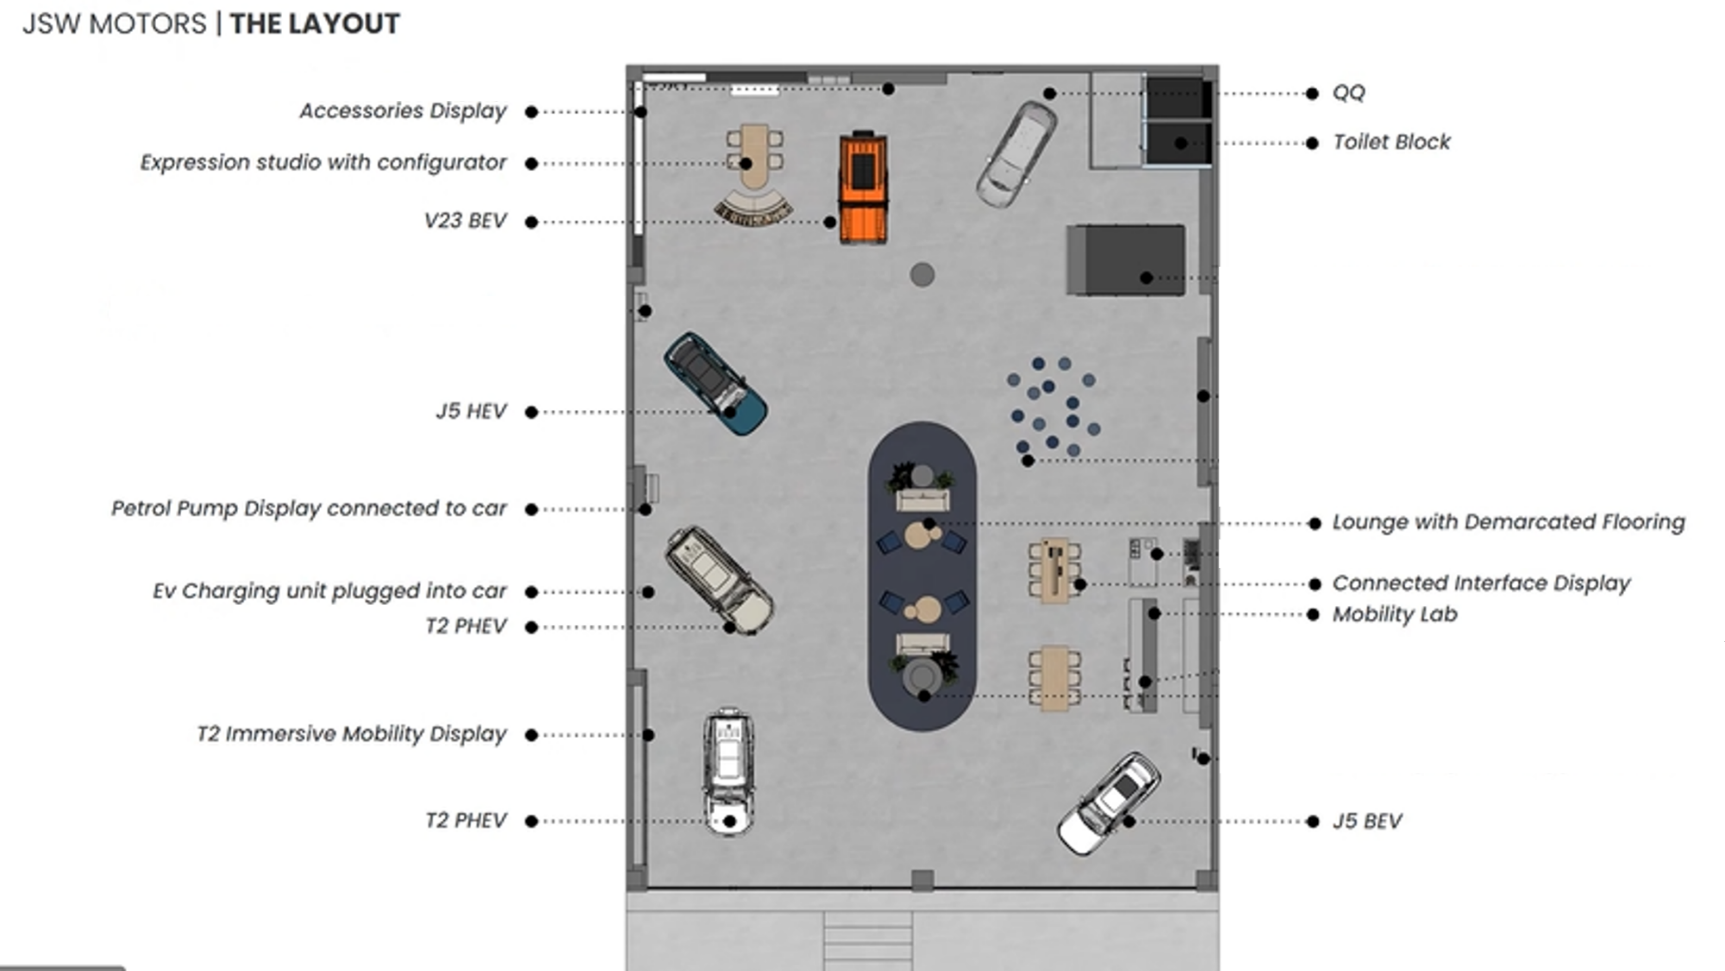
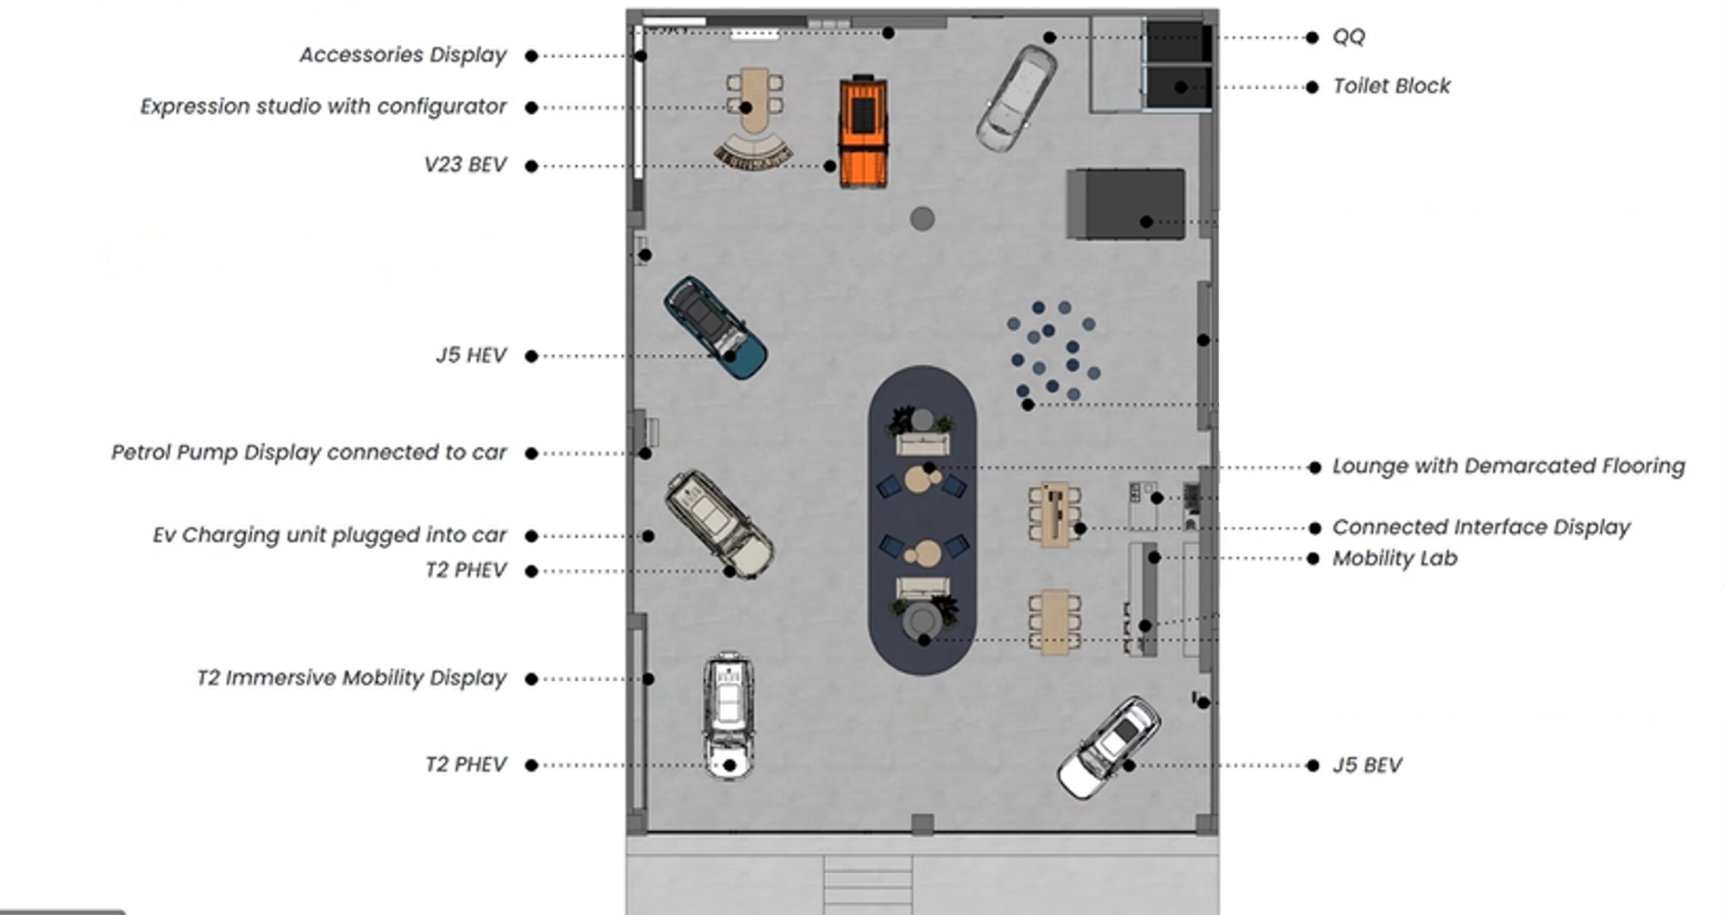
How to Read the Manual: definitions and symbol key from latest Word file; Dealership Layout: remove 'JSW MOTORS | THE LAYOUT' heading from image

diff --git a/index.html b/index.html
@@ -1790,7 +1790,7 @@ kbd{
 </article>
 <article class="jx-chapter jx-intro" id="jxIn_read" data-ch="read" data-kick="Introduction" data-name="How to Read the Manual" hidden>
 <header class="jx-head"><div class="ch-head"><div><p class="jx-kicker">Introduction</p><h1 class="jx-h1">How to Read the Manual</h1></div></div></header>
-<section class="ch-sec"><div class="intro-tw"><table class="intro-t"><tbody><tr><td>Purpose</td><td></td></tr><tr><td>Benefit to Dealership</td><td></td></tr><tr><td>Benefit to Customer</td><td></td></tr><tr><td>Process Flow</td><td></td></tr><tr><td>JSW Motors Process Standards</td><td></td></tr><tr><td>Differentiator</td><td></td></tr><tr><td>Success Metric</td><td></td></tr><tr><td>SC</td><td></td></tr><tr><td>SM</td><td></td></tr><tr><td>CRE</td><td></td></tr><tr><td>CRM</td><td></td></tr><tr><td>TD</td><td></td></tr><tr><td>TDC</td><td></td></tr><tr><td>SA</td><td></td></tr><tr><td>ASE</td><td></td></tr><tr><td>UCC</td><td></td></tr><tr><td>CE</td><td></td></tr><tr><td>EC</td><td></td></tr><tr><td><svg width="34" height="22" viewBox="0 0 34 22" aria-hidden="true"><path d="M17 1l15 10-15 10L2 11z" fill="#1b1b1b"/></svg></td><td>Decision box</td></tr><tr><td><svg width="34" height="22" viewBox="0 0 34 22" aria-hidden="true"><rect x="1" y="2" width="32" height="18" fill="#1b1b1b"/></svg></td><td>Process step</td></tr></tbody></table></div></section>
+<section class="ch-sec"><div class="intro-tw"><table class="intro-t"><tbody><tr><td>Purpose</td><td>Objective of the process</td></tr><tr><td>Benefit to Dealership</td><td>The benefit a dealership gains from having a standardised process</td></tr><tr><td>Benefit to Customer</td><td>The benefit a customer gains from having a standardised process</td></tr><tr><td>Process Flow</td><td>End-to-end standard process flowchart</td></tr><tr><td>JSW Motors Process Standards</td><td>Details of the steps defined in the process flow</td></tr><tr><td>Differentiator</td><td>Unique element in the JSW Motors brand</td></tr><tr><td>Success Metric</td><td>KPIs</td></tr><tr><td>SC</td><td>Sales Consultant</td></tr><tr><td>SM</td><td>Sales Manager</td></tr><tr><td>CRE</td><td>Customer Relationship Executive</td></tr><tr><td>CRM</td><td>Customer Relationship Manager</td></tr><tr><td>TD</td><td>Test Drive</td></tr><tr><td>TDC</td><td>Test Drive Coordinator</td></tr><tr><td>ASE</td><td>Accessories Sales Executive</td></tr><tr><td>CE</td><td>Car Evaluator</td></tr><tr><td>EC</td><td>Experience Centre</td></tr><tr><td><svg width="34" height="22" viewBox="0 0 34 22" aria-hidden="true"><path d="M17 1l15 10-15 10L2 11z" fill="#1b1b1b"/></svg></td><td>Decision box</td></tr><tr><td><svg width="34" height="22" viewBox="0 0 34 22" aria-hidden="true"><rect x="1" y="2" width="32" height="18" fill="#1b1b1b"/></svg></td><td>Process step</td></tr><tr><td><svg width="34" height="22" viewBox="0 0 24 24" aria-hidden="true"><path d="M12 2.5l2.9 6.2 6.8.8-5 4.7 1.3 6.7-6-3.3-6 3.3 1.3-6.7-5-4.7 6.8-.8z" fill="#1b1b1b"/></svg></td><td>Differentiator</td></tr><tr><td><svg width="34" height="22" viewBox="0 0 24 24" aria-hidden="true"><path d="M4 5h16v11H9l-5 4z" fill="none" stroke="#1b1b1b" stroke-width="1.8" stroke-linejoin="round"/></svg></td><td>Script</td></tr><tr><td><svg width="34" height="22" viewBox="0 0 34 22" aria-hidden="true"><rect x="1.5" y="2.5" width="31" height="17" rx="3" fill="#fff" stroke="#1b1b1b" stroke-width="1.5" stroke-dasharray="4 3"/></svg></td><td>Automated system step</td></tr></tbody></table></div></section>
 <nav class="jx-pager" aria-label="Page navigation"><button class="jx-pager-btn jx-pager-prev" type="button" data-go="home"><svg viewBox="0 0 24 24"><path d="M19 12H5M11 6l-6 6 6 6"/></svg><div><span class="jx-pager-k">Back to</span><span class="jx-pager-t">Table of Contents</span></div></button><button class="jx-pager-btn jx-pager-next" type="button" data-go="org"><div><span class="jx-pager-k">Next</span><span class="jx-pager-t">Organisation Chart</span></div><svg viewBox="0 0 24 24"><path d="M5 12h14M13 6l6 6-6 6"/></svg></button></nav>
 </article>
 <article class="jx-chapter jx-intro" id="jxIn_org" data-ch="org" data-kick="Introduction" data-name="Organisation Chart" hidden>
